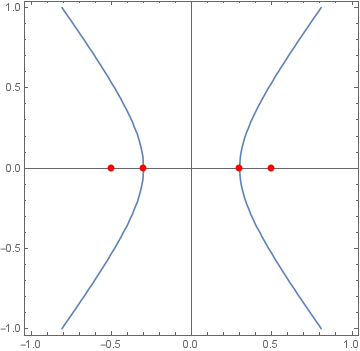
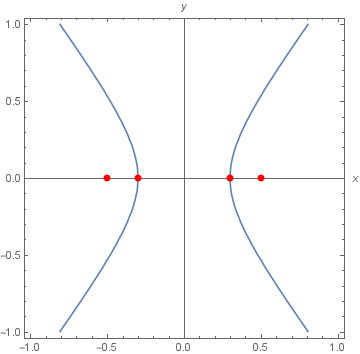
allages

diff --git a/_posts/2018-01-02-panelladikes_2011.md b/_posts/2018-01-02-panelladikes_2011.md
@@ -80,7 +80,7 @@ $$y_M = 0.2 ημ2π(5t-10) = 0.2 ημ10π(t-2)$$
  					PlotRange -> All,
  					GridLines -> Automatic,  
  					Background -> LightBlue, 
- 					PlotLabel -> "xroniki synartisi", 
+ 					PlotLabel -> "yM = f(t)", 
  					AxesLabel -> {"t(s)","y(m)"}, 
  					AxesOrigin -> {0, 0}, 
  					Filling -> Automatic]
@@ -143,6 +143,7 @@ $$\frac{x^2}{0.09} - \frac{y^2}{0.16} = 1$$
 			{x, -1, 1}, 
 			{y, -1, 1}, 
 			Axes->True, 
+			AxesLabel -> {x, y},
 			Epilog -> {Red, PointSize[Large], 
 			Point[ { {0.5, 0}, {0.3, 0}, {-0.3, 0}, {-0.5, 0} } ] } ]
 
@@ -152,21 +153,21 @@ $$\frac{x^2}{0.09} - \frac{y^2}{0.16} = 1$$
 $$(2Ν+1) \frac{λ}{2} = 2a \Rightarrow a = (2N+1) \frac{λ}{4}$$
 
 και όπως δείξαμε στο $$5ο$$ ερώτημα οι αποδεκτές τιμές για το $$Ν$$ είναι $$Ν=0, Ν=1, Ν=-1, Ν=-2$$. Άρα για το πρώτο 
-ζευγάρι υπορβολών θα έχουμε για $$Ν=0 ή Ν=-1$$
+ζευγάρι υπορβολών θα έχουμε για $$Ν=0$$ ή $$Ν=-1$$
 
-$$a=0.15 ή a=-0.15 \Rightarrow a^2 = 0.0225, c=0.5 \Rightarrow c^2 = 0.25, b^2 = 0.2275$$
-
-και η εξίσωση της υπερβολής είναι
-
-$$x^2/0.0225 - y^2/0.2275 = 1$$
-
-ενώ για το δεύτερο ζευγάρι υπερβολών θα έχουμε για $$Ν=1, ή Ν=-2$$
-
-$$a=0.45 ή a=-0.45 \Rightarrow a^2 = 0.2025, c=0.5 \Rightarrow c^2 = 0.25, b^2 = 0.0475$$
+$$a=0.15$$ ή $$a=-0.15 \Rightarrow a^2 = 0.0225, c=0.5 \Rightarrow c^2 = 0.25, b^2 = 0.2275$$
 
 και η εξίσωση της υπερβολής είναι
 
-$$x^2/0.2025 - y^2/0.0475 = 1$$
+$$\frac{x^2}{0.0225} - \frac{y^2}{0.2275} = 1$$
+
+ενώ για το δεύτερο ζευγάρι υπερβολών θα έχουμε για $$Ν=1$$ ή $$Ν=-2$$
+
+$$a=0.45$$ ή $$a=-0.45 \Rightarrow a^2 = 0.2025, c=0.5 \Rightarrow c^2 = 0.25, b^2 = 0.0475$$
+
+και η εξίσωση της υπερβολής είναι
+
+$$\frac{x^2}{0.2025} - \frac{y^2}{0.0475} = 1$$
 
 
 η γραφική παράσταση φαίνεται στην επόμενη εικόνα
@@ -177,9 +178,16 @@ $$x^2/0.2025 - y^2/0.0475 = 1$$
 
 και ο κώδικας σε mathematica για τον σχεδιασμό των υπερβολών είναι:
 
-		ContourPlot[{x^2/0.2025 - y^2/0.475 == 1, x^2/0.0225 - y^2/0.2275 == 1},
-			{x, -1, 1}, 
-			{y, -1, 1}, 
-			Axes->True, 
-			Epilog -> {Red, PointSize[Large], 
-			Point[ { {0.5, 0}, {-0.5, 0} } ] } ]
+		ContourPlot[{x^2/0.2025 - y^2/0.475 == 1, 
+					x^2/0.0225 - y^2/0.2275 == 1},
+					{x, -1, 1}, 
+					{y, -1, 1}, 
+					Axes->True, 
+					AxesLabel -> {x, y},
+					Epilog -> {Black, PointSize[Medium], 
+					Point[ { {0.5, 0},
+							{-0.45, 0}, 
+							{-0.15, 0}, 
+							{0.15, 0}, 
+							{0.45, 0}, 
+							{-0.5, 0} } ] } ]
